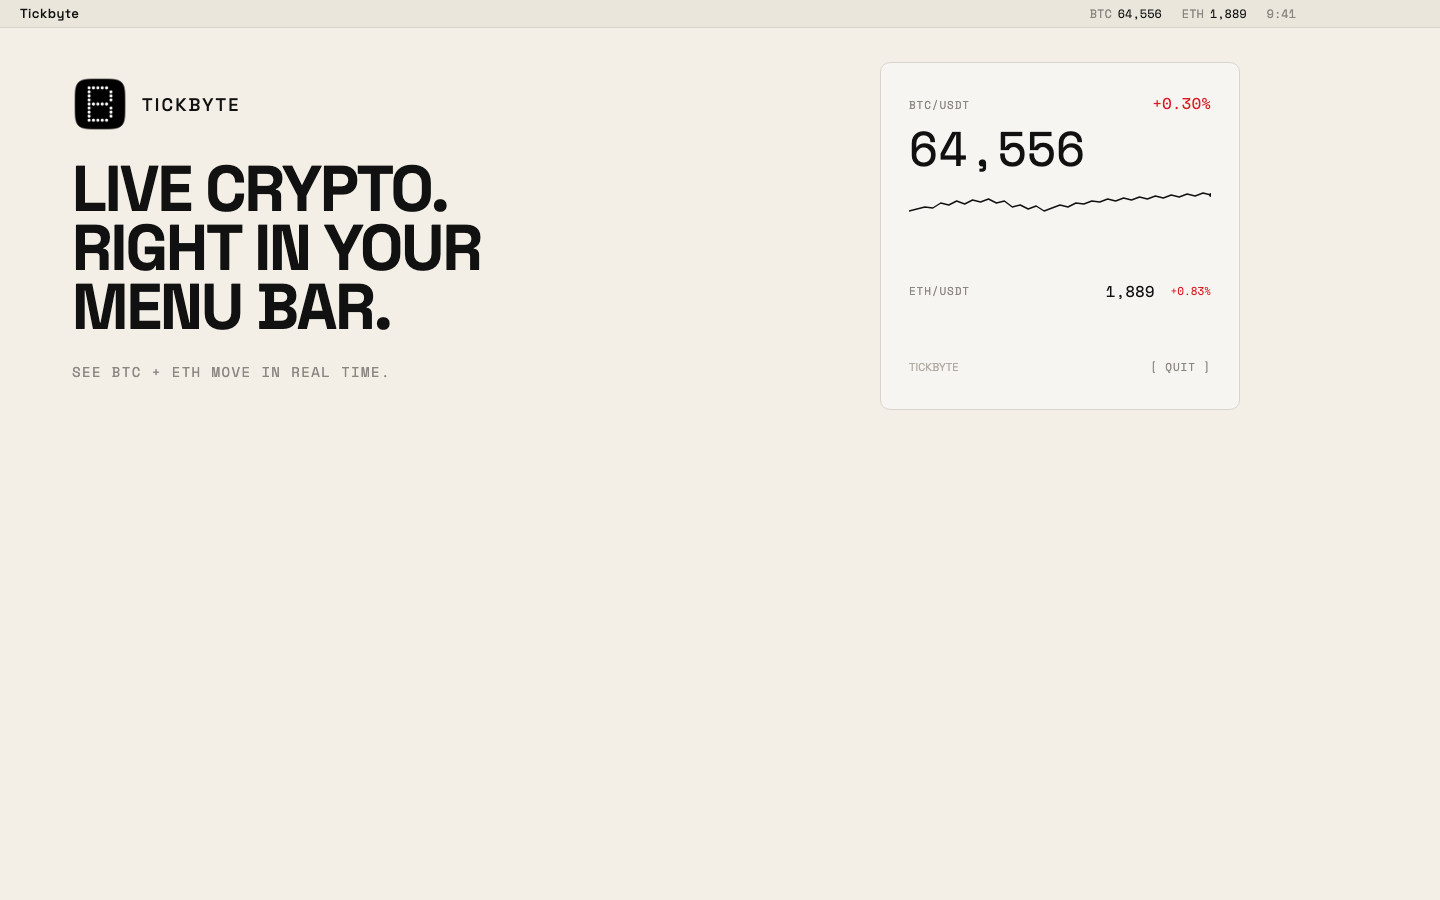
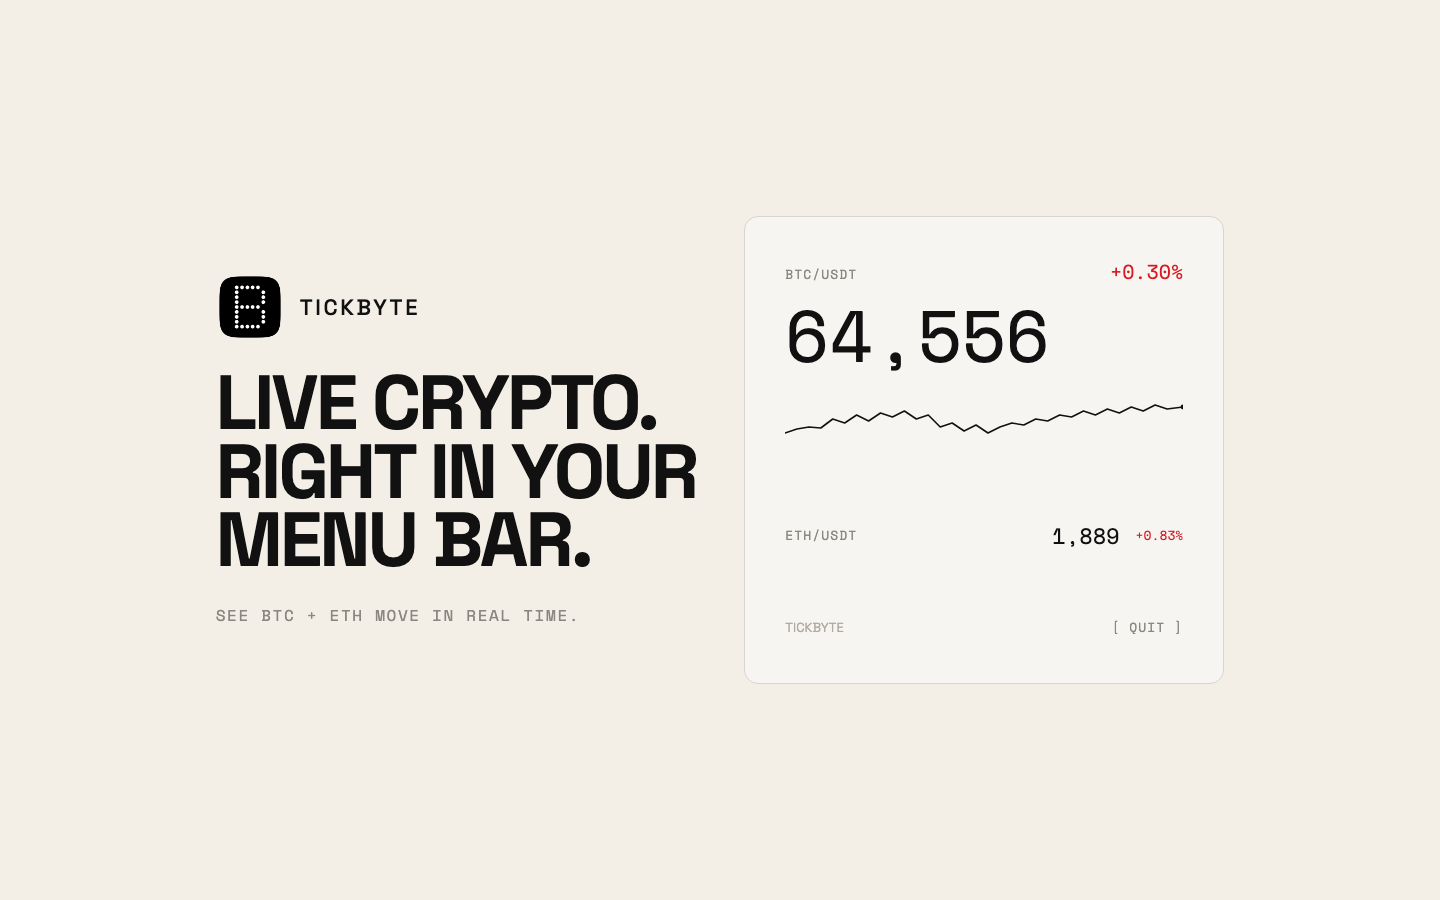
Restore the poster listing shot at full canvas
Drop the fake menu bar. Scale the headline and board so they
fill 1440x900 as one pair, 48px apart.

diff --git a/AppStore/Screenshots/mock-v5.html b/AppStore/Screenshots/mock-v5.html
@@ -18,92 +18,57 @@
     * { box-sizing: border-box; margin: 0; padding: 0; }
     html, body { width: 1440px; height: 900px; overflow: hidden; }
     body {
+      display: flex;
+      align-items: center;
+      justify-content: center;
+      gap: 48px;
+      padding: 48px 56px;
       background: #F3EFE6;
       color: #111;
     }
 
-    /* Real menu-bar app shots hang the dropdown from the bar
-       (Tietze / Hackworth). The cream is desktop, not a hole. */
-    .menubar {
-      display: flex;
-      align-items: center;
-      height: 28px;
-      padding: 0 16px 0 20px;
-      background: #EBE6DC;
-      border-bottom: 1px solid #D9D4CB;
-      font-family: "Space Mono", monospace;
-      font-size: 12px;
-    }
-    .menubar .app {
-      font-family: "Space Grotesk", sans-serif;
-      font-size: 13px;
-      font-weight: 500;
-      letter-spacing: 0.04em;
-    }
-    .menubar .grow { flex: 1; }
-    .menubar .tick { margin-right: 20px; }
-    .menubar .code { color: #8A8680; margin-right: 6px; }
-    .menubar .clock {
-      color: #8A8680;
-      font-size: 12px;
-      margin-right: 128px;
-    }
-
-    .desktop {
-      position: relative;
-      height: 872px;
-    }
-
-    .copy {
-      position: absolute;
-      left: 72px;
-      top: 48px;
-      width: 620px;
-    }
+    .brand { flex: 0 0 auto; }
     .identity {
       display: flex;
       align-items: center;
-      gap: 14px;
+      gap: 16px;
       margin-bottom: 28px;
     }
     .identity img {
-      width: 56px;
-      height: 56px;
-      border-radius: 12px;
+      width: 68px;
+      height: 68px;
+      border-radius: 14px;
     }
     .identity span {
       font-family: "Space Grotesk", sans-serif;
-      font-size: 18px;
+      font-size: 22px;
       font-weight: 500;
       letter-spacing: 0.12em;
     }
     h1 {
       font-family: "Space Grotesk", sans-serif;
-      font-size: 64px;
+      font-size: 76px;
       font-weight: 700;
-      letter-spacing: -0.03em;
-      line-height: 0.92;
+      letter-spacing: -0.035em;
+      line-height: 0.9;
       text-transform: uppercase;
     }
     .lede {
-      margin-top: 24px;
+      margin-top: 28px;
       font-family: "Space Mono", monospace;
-      font-size: 14px;
+      font-size: 16px;
       letter-spacing: 0.1em;
       text-transform: uppercase;
       color: #8A8680;
     }
 
-    /* 6px under the bar, right-aligned to the ticker — same as the app. */
     .panel {
-      position: absolute;
-      top: 34px;
-      left: 880px;
-      width: 360px;
-      padding: 28px 28px 20px;
+      flex: 0 0 480px;
+      width: 480px;
+      padding: 40px 40px 32px;
       background: #F7F5F1;
       border: 1px solid #D9D4CB;
-      border-radius: 10px;
+      border-radius: 14px;
     }
     .row {
       display: flex;
@@ -112,47 +77,47 @@
     }
     .pair, .compact-pair, .quit, .wordmark {
       font-family: "Space Mono", monospace;
-      font-size: 11px;
+      font-size: 13px;
       letter-spacing: 0.08em;
       text-transform: uppercase;
       color: #8A8680;
     }
     .change {
       font-family: "Space Mono", monospace;
-      font-size: 16px;
+      font-size: 20px;
       color: #D71921;
     }
     .hero-price {
-      margin-top: 8px;
+      margin-top: 12px;
       font-family: "Space Mono", monospace;
-      font-size: 48px;
-      line-height: 1.05;
+      font-size: 72px;
+      line-height: 1.02;
     }
-    .chart { margin-top: 16px; }
-    .chart svg { width: 100%; height: 32px; display: block; }
+    .chart { margin-top: 24px; }
+    .chart svg { width: 100%; height: 56px; display: block; }
     .compact {
       display: flex;
       align-items: center;
-      min-height: 44px;
-      margin-top: 48px;
+      min-height: 56px;
+      margin-top: 56px;
     }
     .compact-pair { flex: 1; }
     .compact-price {
       font-family: "Space Mono", monospace;
-      font-size: 16px;
+      font-size: 22px;
       margin-right: 16px;
     }
     .compact-change {
       font-family: "Space Mono", monospace;
-      font-size: 11px;
+      font-size: 13px;
       color: #D71921;
     }
     .footer {
       display: flex;
       align-items: center;
       justify-content: space-between;
-      margin-top: 32px;
-      min-height: 44px;
+      margin-top: 40px;
+      min-height: 48px;
     }
     .wordmark {
       font-family: "Space Grotesk", sans-serif;
@@ -163,53 +128,43 @@
   </style>
 </head>
 <body>
-  <header class="menubar">
-    <span class="app">Tickbyte</span>
-    <span class="grow"></span>
-    <span class="tick"><span class="code">BTC</span>64,556</span>
-    <span class="tick"><span class="code">ETH</span>1,889</span>
-    <span class="clock">9:41</span>
-  </header>
+  <section class="brand">
+    <div class="identity">
+      <img src="../../Tickbyte/AppIcon.icon/Assets/AppIcon-1024.png" alt="" />
+      <span>TICKBYTE</span>
+    </div>
+    <h1>Live crypto.<br>Right in your<br>menu bar.</h1>
+    <p class="lede">See BTC + ETH move in real time.</p>
+  </section>
 
-  <div class="desktop">
-    <section class="copy">
-      <div class="identity">
-        <img src="../../Tickbyte/AppIcon.icon/Assets/AppIcon-1024.png" alt="" />
-        <span>TICKBYTE</span>
-      </div>
-      <h1>Live crypto.<br>Right in your<br>menu bar.</h1>
-      <p class="lede">See BTC + ETH move in real time.</p>
-    </section>
-
-    <aside class="panel">
-      <div class="row">
-        <span class="pair">BTC/USDT</span>
-        <span class="change">+0.30%</span>
-      </div>
-      <div class="hero-price">64,556</div>
-      <div class="chart">
-        <svg viewBox="0 0 304 32" preserveAspectRatio="none">
-          <polyline
-            fill="none"
-            stroke="#111"
-            stroke-width="1.4"
-            stroke-linejoin="round"
-            stroke-linecap="round"
-            points="0,22 8,20 16,18 24,19 32,14 40,16 48,12 56,15 64,11 72,13 80,10 88,14 96,12 104,18 112,16 120,20 128,17 136,22 144,19 152,16 160,18 168,14 176,15 184,12 192,13 200,10 208,12 216,9 224,11 232,8 240,10 248,7 256,9 264,6 272,8 280,5 288,7 296,4 304,6"
-          />
-          <circle cx="304" cy="6" r="2" fill="#111" />
-        </svg>
-      </div>
-      <div class="compact">
-        <span class="compact-pair">ETH/USDT</span>
-        <span class="compact-price">1,889</span>
-        <span class="compact-change">+0.83%</span>
-      </div>
-      <div class="footer">
-        <span class="wordmark">TICKBYTE</span>
-        <span class="quit">[ QUIT ]</span>
-      </div>
-    </aside>
-  </div>
+  <aside class="panel">
+    <div class="row">
+      <span class="pair">BTC/USDT</span>
+      <span class="change">+0.30%</span>
+    </div>
+    <div class="hero-price">64,556</div>
+    <div class="chart">
+      <svg viewBox="0 0 400 56" preserveAspectRatio="none">
+        <polyline
+          fill="none"
+          stroke="#111"
+          stroke-width="1.6"
+          stroke-linejoin="round"
+          stroke-linecap="round"
+          points="0,38 12,34 24,32 36,33 48,24 60,28 72,20 84,26 96,18 108,22 120,16 132,24 144,20 156,32 168,28 180,36 192,30 204,38 216,32 228,28 240,30 252,24 264,26 276,20 288,22 300,16 312,20 324,14 336,18 348,12 360,16 372,10 384,14 400,12"
+        />
+        <circle cx="400" cy="12" r="2.4" fill="#111" />
+      </svg>
+    </div>
+    <div class="compact">
+      <span class="compact-pair">ETH/USDT</span>
+      <span class="compact-price">1,889</span>
+      <span class="compact-change">+0.83%</span>
+    </div>
+    <div class="footer">
+      <span class="wordmark">TICKBYTE</span>
+      <span class="quit">[ QUIT ]</span>
+    </div>
+  </aside>
 </body>
 </html>
